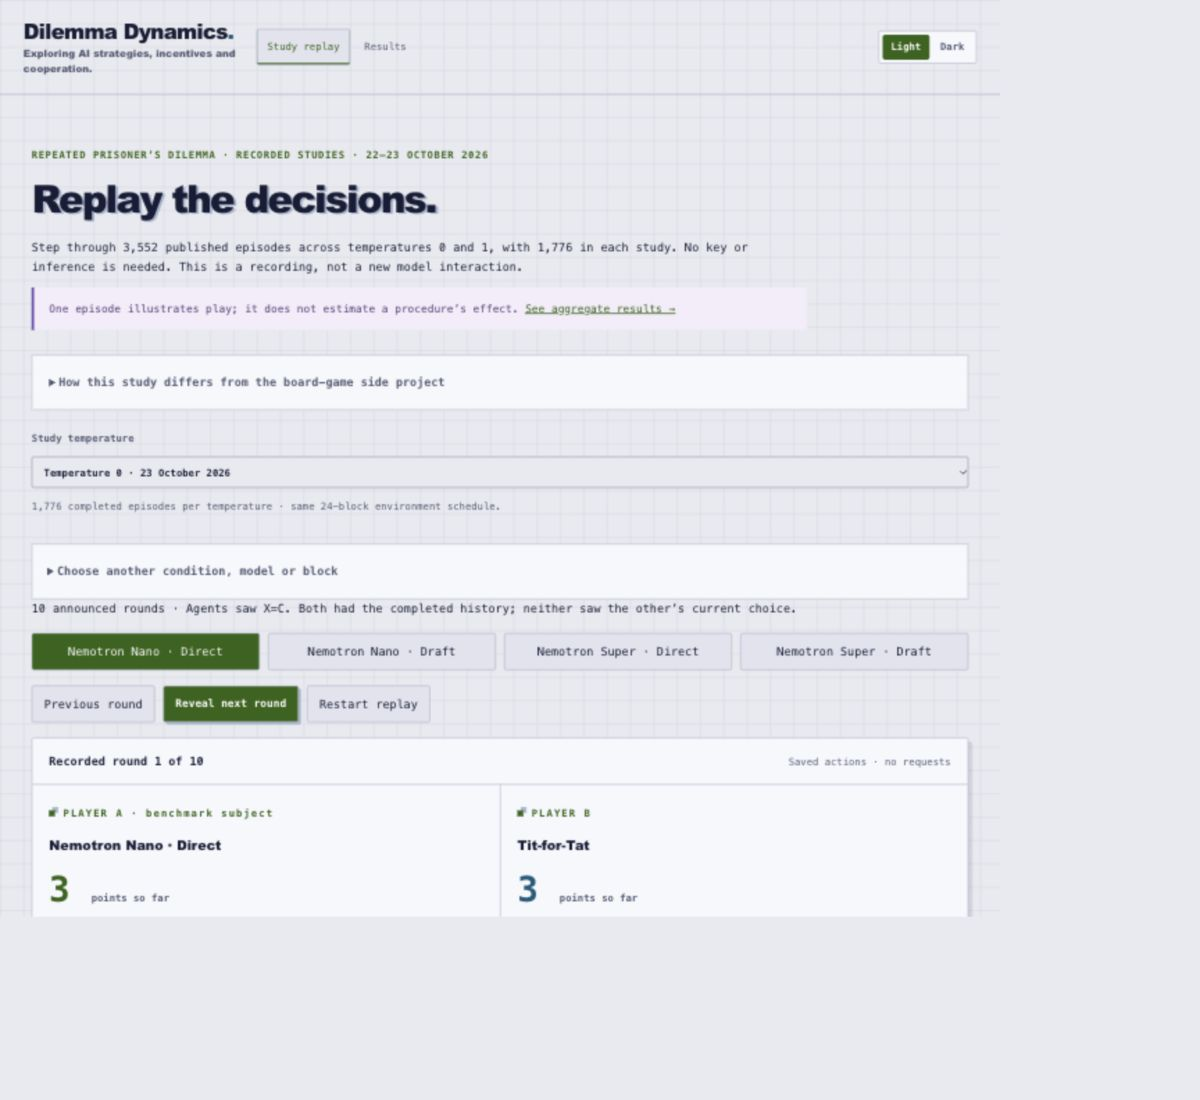
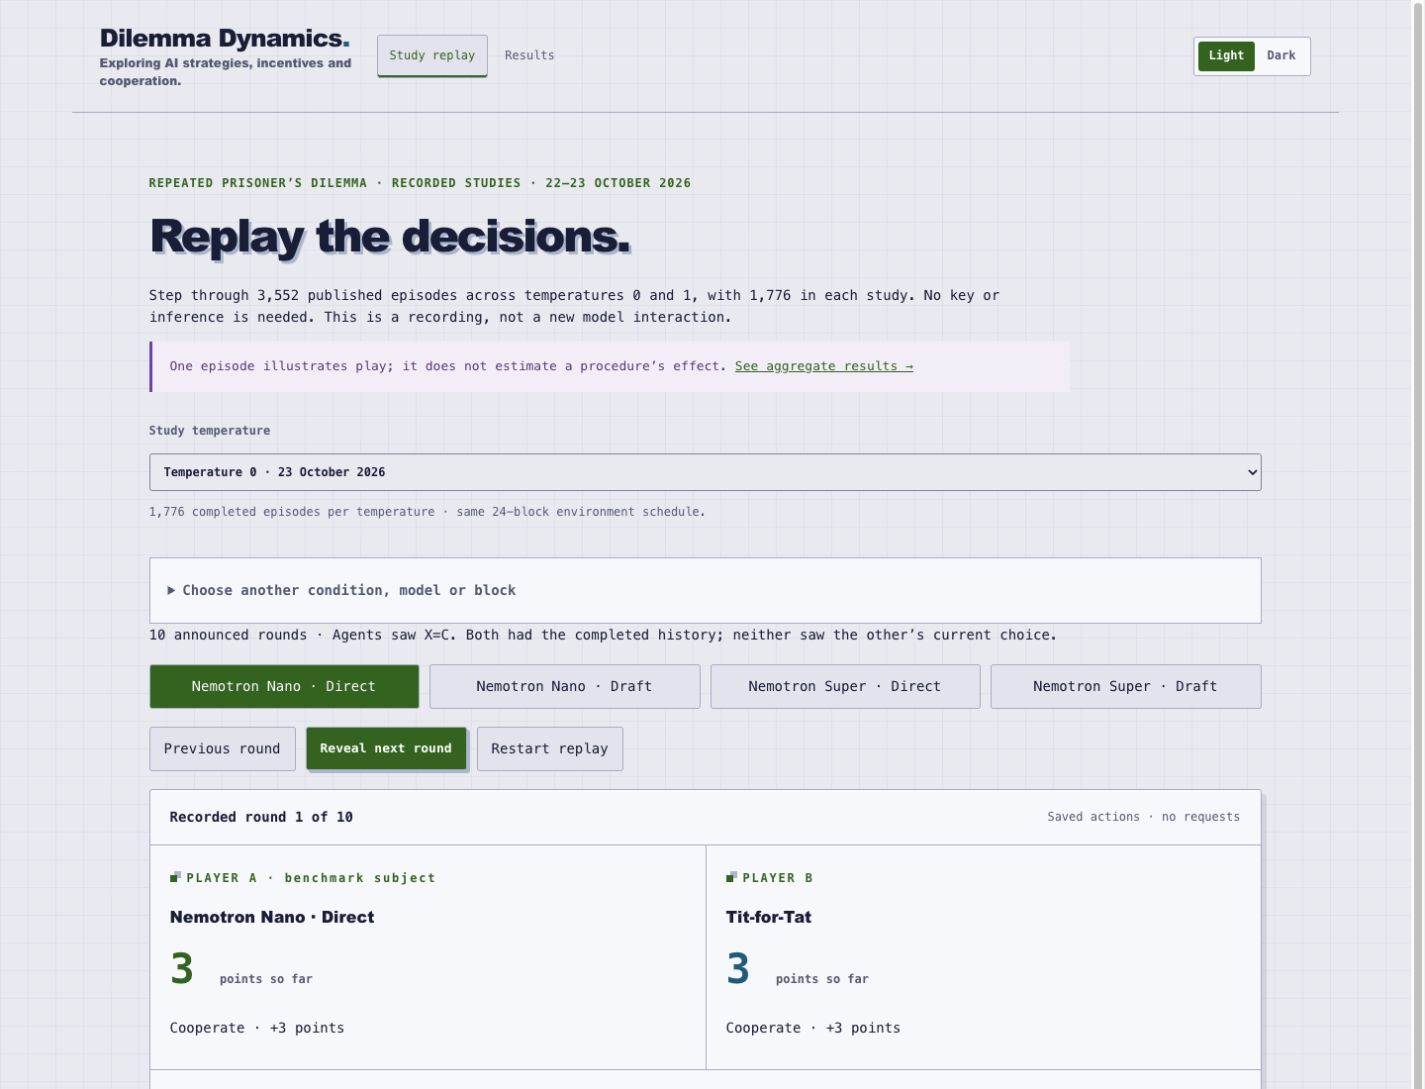
feat: Enhance documentation and refine game type distinctions in Jekyll demo and release notes

diff --git a/src/web/StudyResults.tsx b/src/web/StudyResults.tsx
@@ -54,9 +54,9 @@ export function StudyResults({
           <p className="results-eyebrow">
             Repeated Prisoner’s Dilemma · two completed studies · 22–23 October 2026
           </p>
-          <h1>Drafting improved average benchmark decisions.</h1>
+          <h1>Drafting narrowed the gap to the payoff benchmark.</h1>
           <p className="results-lead">
-            A capped draft followed by a separate action request reduced average decision loss for
+            A capped draft followed by a separate action request reduced average benchmark loss for
             both Nemotron models at temperatures 1 and 0, across 3,552 completed episodes. The
             benefit depended on the opponent; drafting worsened performance against Tit-for-Tat on
             average.
@@ -78,7 +78,6 @@ export function StudyResults({
           </div>
         </div>
 
-        <GameTypes />
         <StudyTemperature value={temperature} onChange={setTemperature} />
         <dl className="results-stats">
           <div>
@@ -114,9 +113,9 @@ export function StudyResults({
           </p>
           <h2 id="temperature-title">The size of the drafting benefit changed.</h2>
           <p>
-            Drafting lowered mean benchmark loss at both temperatures. Super Direct improved at zero
-            while Super Draft was nearly unchanged, reducing Super’s drafting advantage. Nano’s
-            change in the drafting advantage was uncertain under the approximate interval.
+            Drafting lowered mean benchmark loss at both temperatures. Super Direct’s loss fell at
+            zero while Super Draft’s was nearly unchanged, reducing Super’s drafting advantage.
+            Nano’s change in the drafting advantage was uncertain under the approximate interval.
           </p>
           <div
             className="results-table-wrap"
@@ -126,7 +125,7 @@ export function StudyResults({
           >
             <table className="results-table">
               <caption>
-                Mean benchmark loss and draft − direct contrast · lower loss is better
+                Mean benchmark loss and draft − direct contrast · payoff points forgone
               </caption>
               <thead>
                 <tr>
@@ -207,12 +206,13 @@ export function StudyResults({
           <p className="results-eyebrow">
             Temperature {temperature} · Track A · Decisions against disclosed policies
           </p>
-          <h2 id="benchmark-title">Lower loss means a better decision.</h2>
+          <h2 id="benchmark-title">The gap to the best achievable payoff.</h2>
           <p>
-            The reference solver finds the best expected own payoff against a known committed
-            opponent. Oracle loss measures the payoff given up by a chosen action, with optimal
-            continuation thereafter. Episode loss sums these gaps with the specified horizon
-            normalisation. It is a point measure, not a percentage or cooperation score.
+            Against each disclosed opponent policy, an exact solver identifies the highest expected
+            payoff available to the player. Oracle loss measures how much of that payoff a chosen
+            action gives up, assuming optimal play thereafter. We sum these gaps within each episode
+            and normalise for its horizon. A smaller value means less achievable payoff forgone
+            under this benchmark. Cooperation is reported separately in Track B.
           </p>
           <div className="results-model-grid">
             {study.primary.map((result) => (
@@ -612,6 +612,7 @@ export function StudyResults({
         <p className="results-note">
           This page displays saved findings. Viewing or filtering it sends no inference requests.
         </p>
+        <GameTypes />
       </main>
     </div>
   );

diff --git a/vite.config.ts b/vite.config.ts
@@ -1,9 +1,38 @@
 import { defineConfig } from 'vite';
 import react from '@vitejs/plugin-react';
+import { createHash } from 'node:crypto';
+import { readdirSync, readFileSync, unlinkSync } from 'node:fs';
+import { join, relative, resolve } from 'node:path';
+
+// A TeX preview may leave temporary files beside the public report while Vite
+// copies public/. Ship only the reviewed manifest, never compiler intermediates.
+function curateResearchExport() {
+  const directory = resolve('dist/web/research');
+  const manifest = JSON.parse(readFileSync(join(directory, 'manifest.json'), 'utf8')) as {
+    files: Record<string, string>;
+  };
+  const allowed = new Set(['manifest.json', ...Object.keys(manifest.files)]);
+  const visit = (folder: string) => {
+    for (const entry of readdirSync(folder, { withFileTypes: true })) {
+      const path = join(folder, entry.name);
+      if (entry.isDirectory()) visit(path);
+      else if (!allowed.has(relative(directory, path).split('\\').join('/'))) unlinkSync(path);
+    }
+  };
+  visit(directory);
+  for (const [name, expected] of Object.entries(manifest.files)) {
+    const actual = createHash('sha256')
+      .update(readFileSync(join(directory, name)))
+      .digest('hex');
+    if (actual !== expected) throw new Error(`Public research checksum mismatch: ${name}`);
+  }
+}
+
 export default defineConfig(({ mode }) => ({
   base: mode === 'public' ? '/dilemma-dynamics/' : '/',
   plugins: [
     react(),
+    { name: 'curated-research-export', apply: 'build', closeBundle: curateResearchExport },
     ...(mode === 'public'
       ? [
           {

diff --git a/src/web/StudyReplay.tsx b/src/web/StudyReplay.tsx
@@ -93,7 +93,6 @@ export function StudyReplay({
             <a href="#results">See aggregate results →</a>
           </p>
         </div>
-        <GameTypes />
         <StudyTemperature
           value={temperature}
           onChange={(next) => {
@@ -243,7 +242,7 @@ export function StudyReplay({
                       ? 'The announced final round ended the game.'
                       : 'The hidden stopping draw ended the game; players did not know it was their last round.'}
                     {episode.normalisedOracleLoss !== null &&
-                      ` Full-episode benchmark loss: ${episode.normalisedOracleLoss.toFixed(4)} points (lower is better).`}
+                      ` Full-episode benchmark loss: ${episode.normalisedOracleLoss.toFixed(4)} normalised payoff points forgone.`}
                   </p>
                 )}
                 <details className="results-details">
@@ -282,6 +281,7 @@ export function StudyReplay({
             )}
           </>
         )}
+        <GameTypes />
       </main>
     </div>
   );

diff --git a/src/web/GameTypes.tsx b/src/web/GameTypes.tsx
@@ -53,7 +53,7 @@ export function GameTypes({ recreational = false }: { recreational?: boolean }) 
         <summary>
           {recreational
             ? 'Why are these different kinds of games?'
-            : 'How this study differs from the board-game side project'}
+            : 'Extra: recreational board games'}
         </summary>
         {comparison}
       </details>

diff --git a/docs/JEKYLL_DEMO.md b/docs/JEKYLL_DEMO.md
@@ -13,12 +13,17 @@ passed; all 22 demo files were copied byte-for-byte, including the public
 research package. The renamed post and demo were checked in the browser.
 These changes are local and have not been committed, pushed or deployed.
 
-The subsequent game-type clarification updates the website post, README and
+The initial game-type clarification updated the website post, README and
 static demo together. It identifies the repeated Prisoner's Dilemma as the main
 cooperation study and the local app's Dots & Boxes/Tic-tac-toe playground as a
 separate recreational side project. The website demo still offers saved dilemma
 episodes and Results only; it explains the distinction without adding live
 controls or board-game sessions.
+
+The current post leads with the dilemma evaluation and places recreational board
+games in a short extra at the end. Replay and Results likewise keep that extra
+below the study content. Benchmark wording describes achievable payoff forgone,
+with the reference opponent policy and optimal continuation stated explicitly.
 
 The `public` Vite mode builds recorded Study replay and Results for `/dilemma-dynamics/`.
 It uses a separate browser entry (`src/web/public.tsx`) that does not import
@@ -33,6 +38,8 @@ npm run preview:public
 
 Open `http://127.0.0.1:4173/dilemma-dynamics/` to preview. No API server or key is needed.
 Each build replaces `dist/web/`, so export only immediately after `build:public`.
+The build keeps only manifest-listed research files and verifies their checksums;
+temporary report compiler files are excluded from the export.
 
 ## Website integration
 

diff --git a/docs/RELEASE_2026-10-24.md b/docs/RELEASE_2026-10-24.md
@@ -50,3 +50,18 @@ final remote revision still need confirmation. See [publication instructions](PU
 and [the submission checklist](SUBMISSION.md). The [official rules](https://nebiusglobalaihackathon.devpost.com/rules)
 were checked on 24 October: deadline 30 October 2026 at 10:00 a.m. Pacific Time;
 a public YouTube demonstration shorter than three minutes is required.
+
+## Editorial refinement, later on 24 October
+
+The website post now leads with the dilemma evaluation and places Dots & Boxes
+and Tic-tac-toe in a short **Extra: recreational board games** section at the end.
+The app's Results and Replay likewise place that extra below the study content.
+Results describes the gap to the best achievable payoff, defines loss as expected
+own payoff forgone under the disclosed-opponent benchmark, and states the optimal
+continuation assumption. Replay uses the same payoff-based wording.
+
+Both builds and all 58 app tests passed, along with public-results reproduction,
+publication checks and the rebuilt website's 35-file/link/checksum verification.
+A build probe confirmed that temporary report compiler files are excluded from
+the static export; exported research files are checked against the public manifest.
+The website post/demo were updated locally with a backup retained.
